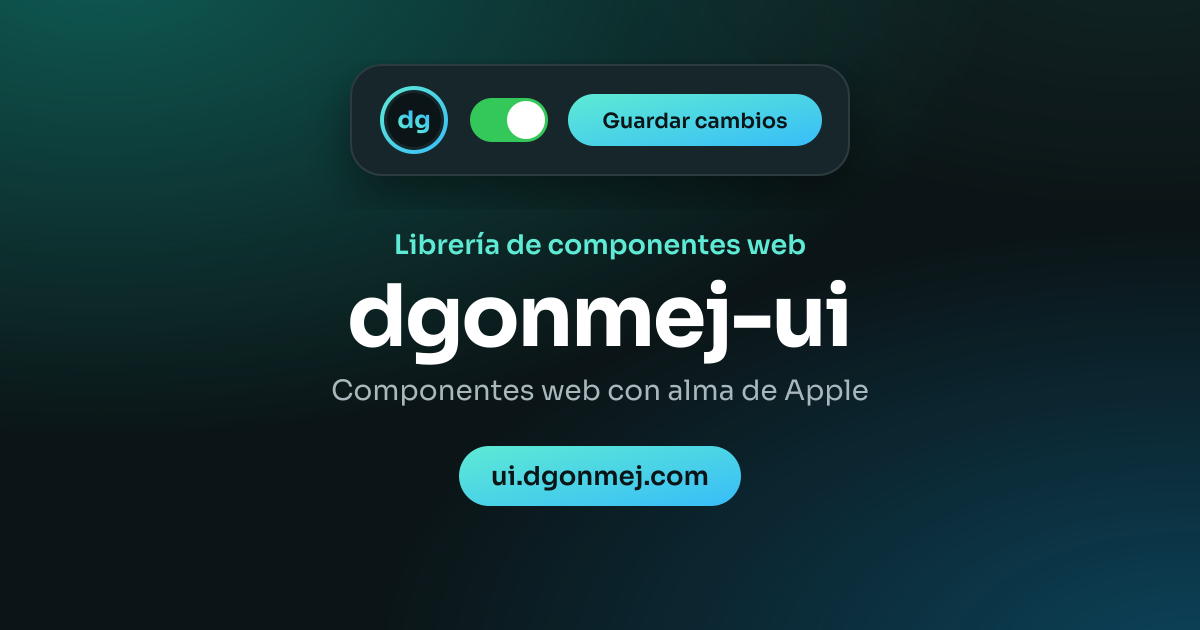
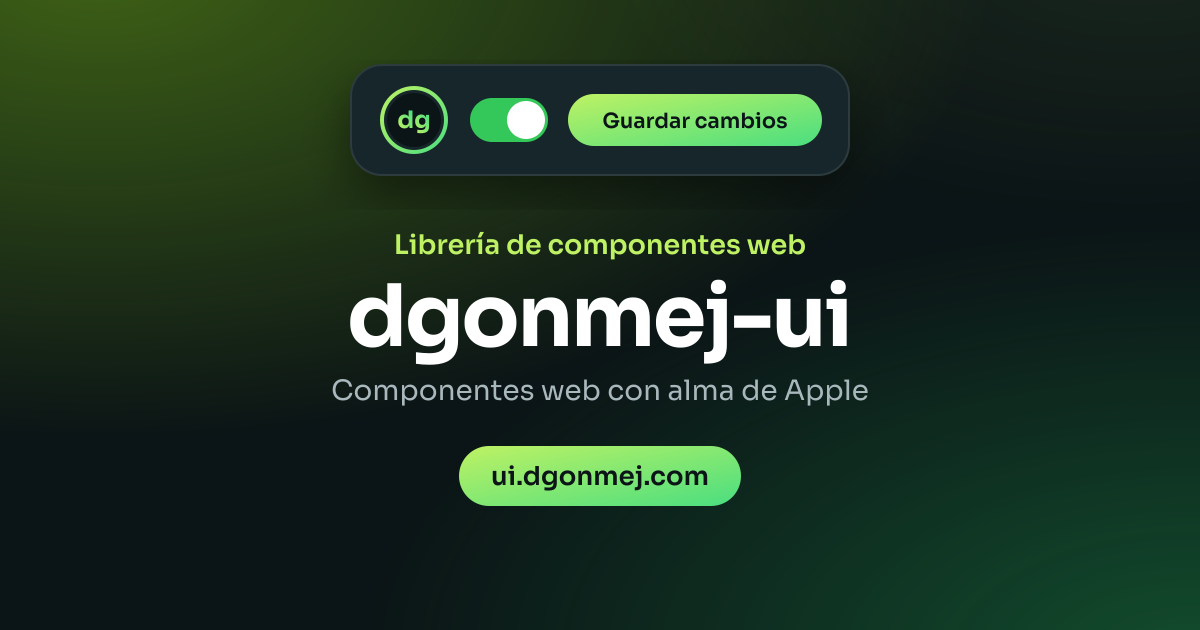
Give the demo lockup the Lima colour and Sora, and regenerate its share image

diff --git a/demo/marca.css b/demo/marca.css
@@ -1,10 +1,14 @@
-/* Marca de la barra: la misma pieza "dg" del favicon (fondo oscuro con brillo verde azulado)
-   y el nombre, con "ui" en una pastilla del mismo degradado. Colores de la familia dgonmej.
+/* Marca de la barra: la misma pieza "dg" del favicon (fondo oscuro con el brillo «Lima», el color de
+   ui en la familia dgonmej: ver Code/brand) y el nombre, con "ui" en una pastilla del mismo degradado,
+   en Sora. Solo la marca: los componentes de la demo enseñan el tema por defecto de la librería.
    La comparten la demo y el playground. */
+@import '@fontsource/sora/700.css';
+@import '@fontsource/sora/800.css';
+
 .brand {
   --brand-ink: #0b1416;
-  --brand-from: #5eead4;
-  --brand-to: #38bdf8;
+  --brand-from: #bef264;
+  --brand-to: #4ade80;
   display: inline-flex;
   align-items: center;
   gap: 10px;
@@ -32,16 +36,16 @@
   border-radius: 9px;
   overflow: hidden;
   background:
-    radial-gradient(90% 90% at 15% 0%, rgb(20 184 166 / 0.6), transparent 70%),
-    radial-gradient(80% 80% at 100% 100%, rgb(14 165 233 / 0.45), transparent 70%),
+    radial-gradient(90% 90% at 15% 0%, rgb(132 204 22 / 0.6), transparent 70%),
+    radial-gradient(80% 80% at 100% 100%, rgb(34 197 94 / 0.45), transparent 70%),
     var(--brand-ink);
   box-shadow:
     inset 0 0 0 1px rgb(255 255 255 / 0.08),
     0 1px 2px rgb(0 0 0 / 0.18),
-    0 4px 12px rgb(20 184 166 / 0.22);
+    0 4px 12px rgb(132 204 22 / 0.22);
 }
 .brand-mark span {
-  font-family: var(--ui-font-family-display);
+  font-family: 'Sora', var(--ui-font-family-display);
   font-size: 17px;
   font-weight: 800;
   letter-spacing: -0.04em;
@@ -56,7 +60,7 @@
   display: inline-flex;
   align-items: center;
   gap: 6px;
-  font-family: var(--ui-font-family-display);
+  font-family: 'Sora', var(--ui-font-family-display);
   font-size: var(--ui-font-size-title3);
   font-weight: 700;
   letter-spacing: -0.02em;

diff --git a/docs/PENDIENTES.md b/docs/PENDIENTES.md
@@ -1,8 +1,8 @@
-# Pendientes de dgonmej-ui
+# Pendientes de Librería
 
 > Generado desde dgonmej-api el 2026-11-23. No lo edites a mano: las tareas se gestionan en el panel (dgonmej.com/admin) o en tasker, y este archivo se vuelve a generar.
 
-- **Estado:** `[ ]` pendiente (0), `[~]` en curso (0), `[x]` hecho (1), `[-]` descartado (0).
+- **Estado:** `[ ]` pendiente (1), `[~]` en curso (0), `[x]` hecho (1), `[-]` descartado (0).
 - **Grupos:** **P0** antes de publicar, **P1** poco después, **P2** cuando haya tiempo, **Q** calidad, **D** ecosistema.
 
 ## Librería dgonmej-ui (ui.dgonmej.com)
@@ -15,3 +15,9 @@
   - Avatar: no usar la foto real (`demo/profile.jpg`); usar la ilustración de whoami (`whoami/src/assets/avatar-light.png`, y la oscura si hace falta).
   - Se pueden quedar la autoría del sitio (`meta author`, el autor en los datos estructurados y «Hecho por Diego González» en el pie), que es la firma de la librería y no un dato de ejemplo. Revisar también la imagen al compartir de lab, que muestra una tarjeta con el nombre.
   - Hecho cuando: buscar «Mínima», «Diego», «TECH» y `profile.jpg` en `demo/` solo devuelve la autoría, y las demos se ven completas con los datos nuevos.
+
+- [ ] **UI-02. Borrar la foto real del historial de git** (`dgonmej-ui`): Quitar del historial del repo público la foto real que se usó en la demo antes del avatar ilustrado.
+  - El repo dgonmej/dgonmej-ui es público: aunque la foto ya no esté en main, sigue en commits antiguos.
+  - Reescribir el historial con git filter-repo (quitar la ruta o rutas de la foto), forzar la subida de todas las ramas y etiquetas (v0.1.x) y pedir a GitHub que purgue la caché si hace falta. Las etiquetas publicadas en npm no cambian de código, pero sus commits sí de hash.
+  - Avisar de que los clones existentes quedan desfasados (solo Diego).
+  - Hecho cuando: buscar la foto en todo el historial no da resultados y las etiquetas siguen apuntando a commits válidos.
